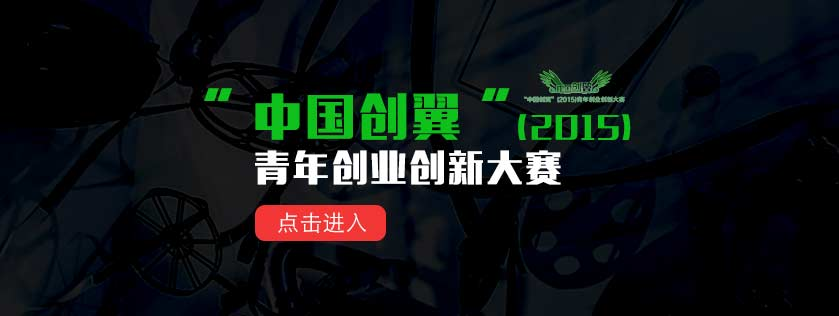
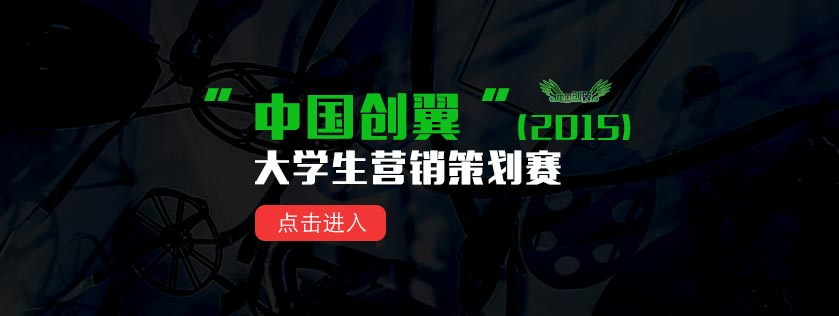
go-on-shopping button pulled out from <a> and js changed. some text and image change

Changed region(s): [[0.2789, 0.4557, 0.6198, 0.5981], [0.6198, 0.2278, 0.7437, 0.3418]]

diff --git a/app/assets/javascripts/mobile/products.js b/app/assets/javascripts/mobile/products.js
@@ -95,8 +95,8 @@
     if($('.product-detail-share').length > 0){
       window._bd_share_config = {
         common: {
-          bdText: '我们参加了青年创业创新大赛，向你推荐'+ $('.product-detail-text-head').text() +', 来看看吧~',
-          bdDesc: '我们参加了青年创业创新大赛，向你推荐'+ $('.product-detail-text-head').text() +', 来看看吧~',
+          bdText: '我们参加了大学生营销策划赛，向你推荐'+ $('.product-detail-text-head').text() +', 来看看吧~',
+          bdDesc: '我们参加了大学生营销策划赛，向你推荐'+ $('.product-detail-text-head').text() +', 来看看吧~',
           bdPic: $('.swiper-slide-visible .product-detail-image')[0].src
         },
         share: [{

diff --git a/app/assets/javascripts/desktop/contest_products.js b/app/assets/javascripts/desktop/contest_products.js
@@ -4,8 +4,8 @@ $(document).ready(function() {
   if ($('.game_share_content').length > 0) {
     window._bd_share_config = {
       common: {
-        bdText: '我们参加了青年创业创新大赛，来围观吧~',
-        bdDesc: '我们参加了青年创业创新大赛，来围观吧~',
+        bdText: '我们参加了大学生营销策划赛，来围观吧~',
+        bdDesc: '我们参加了大学生营销策划赛，来围观吧~',
         bdPic: $('.game_poster')[0].src
       },
       share: [{

diff --git a/app/assets/javascripts/mobile/contest_products.js b/app/assets/javascripts/mobile/contest_products.js
@@ -2,8 +2,8 @@ $(document).ready(function() {
   if ($('.game_share_content').length > 0) {
     window._bd_share_config = {
       common: {
-        bdText: '我们参加了青年创业创新大赛，来围观吧~',
-        bdDesc: '我们参加了青年创业创新大赛，来围观吧~',
+        bdText: '我们参加了大学生营销策划赛，来围观吧~',
+        bdDesc: '我们参加了大学生营销策划赛，来围观吧~',
         bdPic: $('.game_poster')[0].src
       },
       share: [{

diff --git a/app/assets/javascripts/desktop/orders.js b/app/assets/javascripts/desktop/orders.js
@@ -2,6 +2,9 @@
 // All this logic will automatically be available in application.js.
 
 $(document).ready(function() {
+  $('.go-on-shopping').click(function() {
+    location.href = '/';
+  });
   var paymentTimeCountDown = function() {
     if (time > 0) {
       time = Math.max(time - 1, 0);
